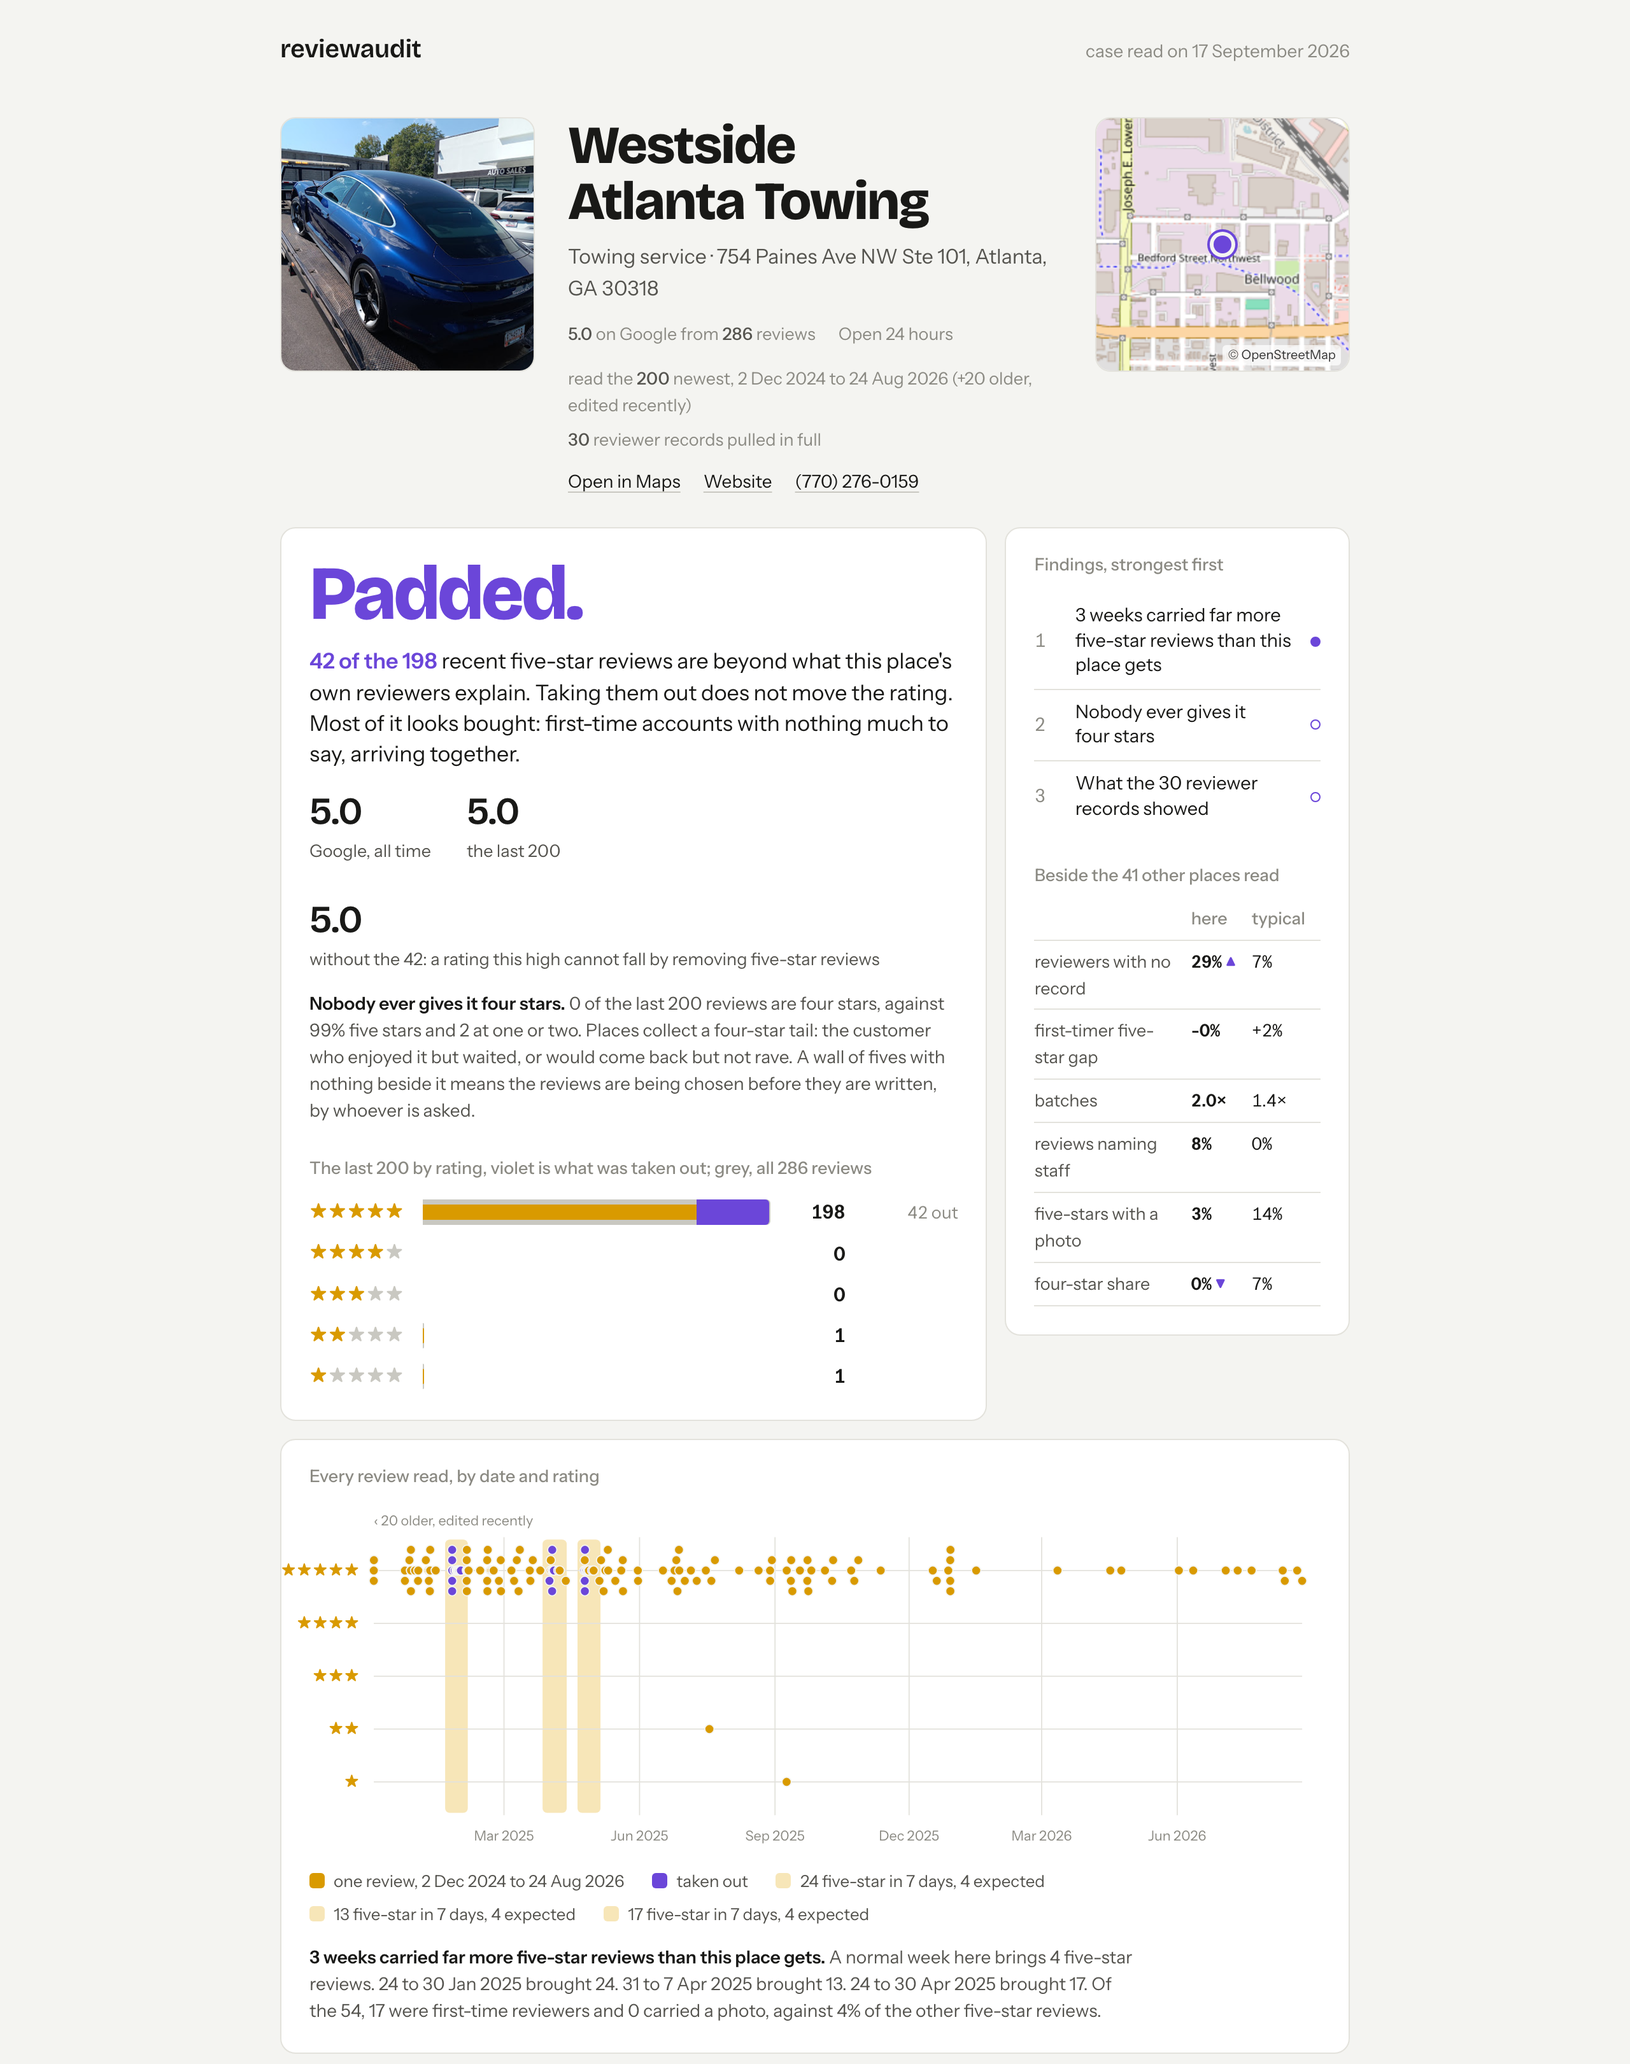
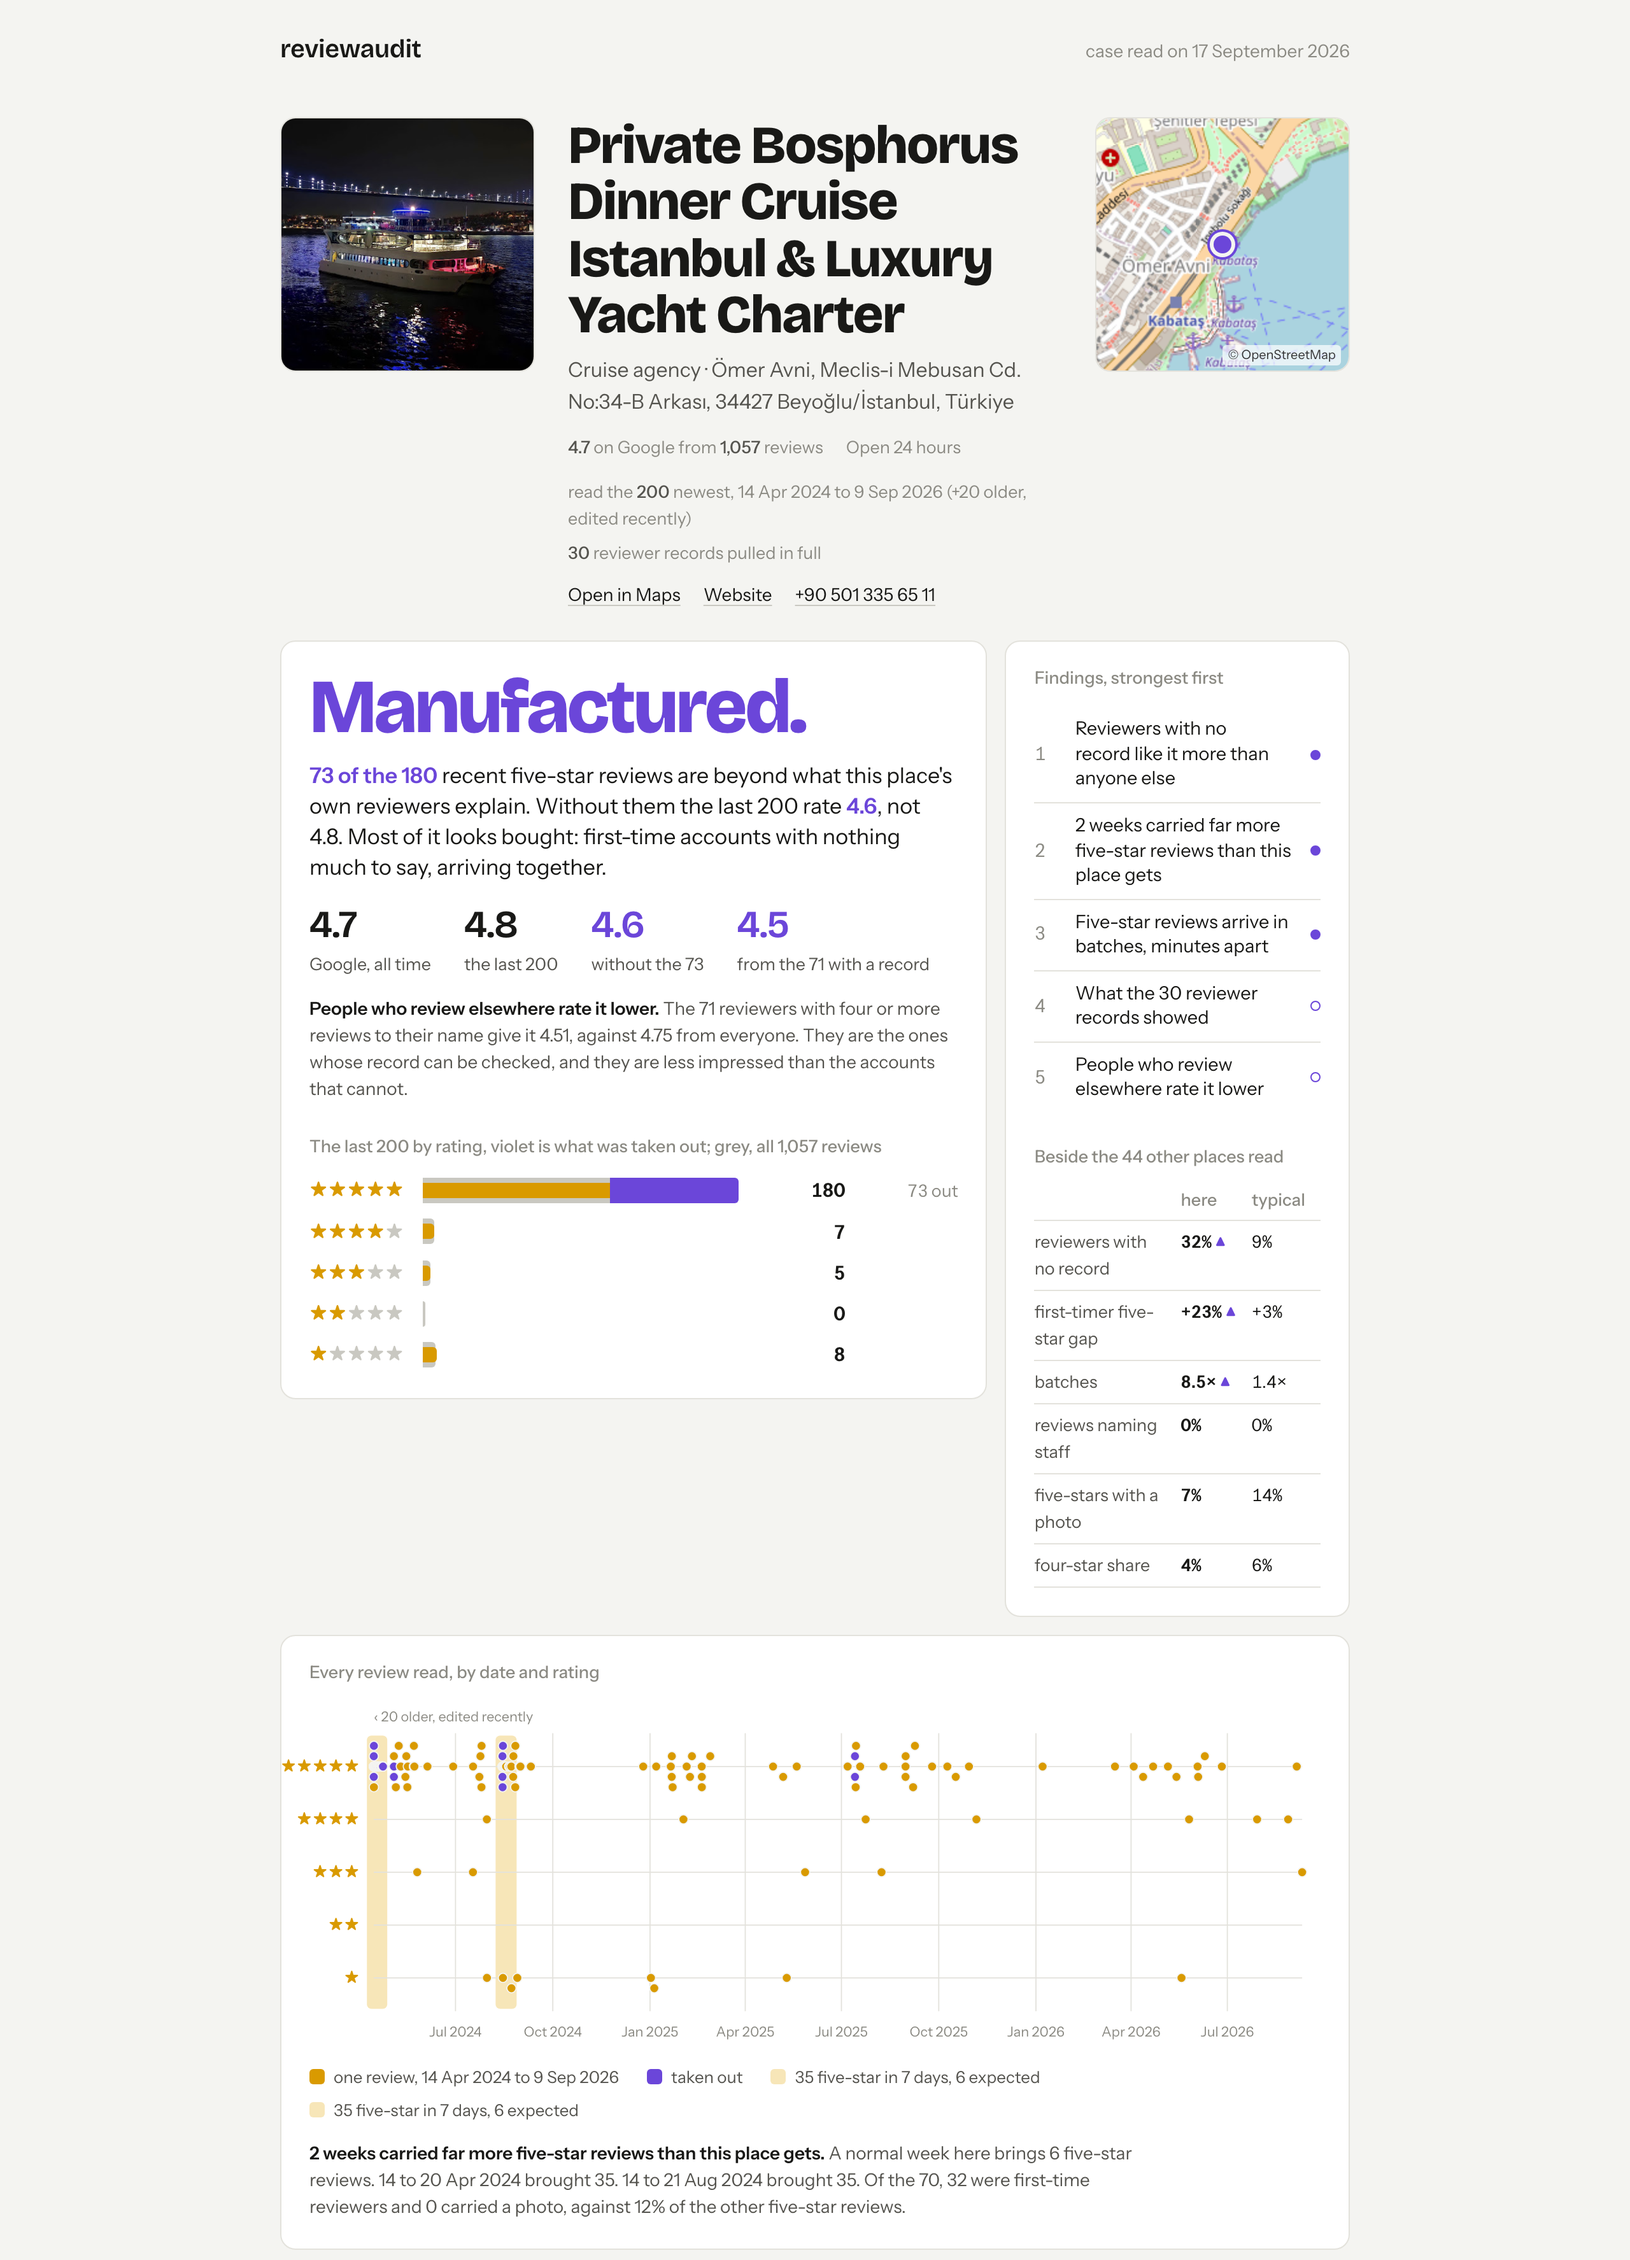
Hero case: the Bosphorus cruise, where the rating actually moves

diff --git a/tools/screenshots.py b/tools/screenshots.py
@@ -17,7 +17,7 @@ from playwright.sync_api import sync_playwright
 BASE = sys.argv[1] if len(sys.argv) > 1 else "http://localhost:8811"
 ONLY = set(sys.argv[2].split(",")) if len(sys.argv) > 2 else None  # e.g. home,cases: a run costs credits, skip it when you can
 OUT = "docs"
-CASE = "westside-atlanta-towing-atlanta.html"  # the hero: a 5.0 that does not hold up
+CASE = "private-bosphorus-dinner-cruise-istanbul-luxury-yacht-charter-beyoglu-istanbul.html"  # the hero: the clearest case of bought reviews
 INSIGHTS = "katz-s-delicatessen-new-york.html"  # a place with enough unhappy reviews to have complaints
 SEARCH = "/search?q=towing&near=Atlanta,%20Georgia"
 RUN = "Pike Place Chowder Seattle"  # somewhere not yet read, so the run has work to do

diff --git a/README.md b/README.md
@@ -13,7 +13,7 @@ Reads a Google Maps place's reviews and tells you how much of the praise its own
   <a href="https://serpapi.com"><img src="https://img.shields.io/badge/data-SerpApi-6b46d9" alt="SerpApi"></a>
 </p>
 
-<p align="center"><img src="docs/report.png" alt="A case: Nusr-Et Steakhouse, padded" width="900"></p>
+<p align="center"><img src="docs/report.png" alt="A case: a Bosphorus dinner cruise, manufactured" width="900"></p>
 
 Every business with a rating has an incentive to improve it, and a market that will sell it
 one. reviewaudit reads the newest reviews of one place through [SerpApi](https://serpapi.com),
@@ -21,11 +21,17 @@ pulls the full Google record of the reviewers worth a closer look, and writes a 
 that says which reviews the place's own baseline cannot explain, what the rating is without
 them, and what kind of padding it is: bought, or asked for at the table.
 
-The page above is a real read. A towing service in Atlanta with a **5.0 from 286 reviews**:
-198 of the last 200 reviews are five stars, **none** are four stars, 29% come from accounts
-that have never reviewed anything else (8% is typical), 3% carry a photo (14% is typical),
-and three separate weeks brought 24, 13 and 17 five-star reviews where four is this place's
-normal week.
+The page above is a real read: a Bosphorus dinner cruise advertising **4.7 from 1,057
+reviews**. 73 of its last 180 five-star reviews are more than its own reviewers can explain,
+which takes the recent rating from 4.8 to **4.6**, and to 4.5 among the reviewers whose
+record can be checked. A third of the reviewers have never reviewed anything else (9% is
+typical here), they give five stars 23 percentage points more often than accounts with a
+record, five-star reviews arrive in batches minutes apart eight times more often than the
+hours people post at would predict, and two separate weeks brought 35 five-star reviews
+where six is this place's normal week.
+
+Every one of those claims is on the page with the chart or table it came from, and every
+review taken out is listed with a link back to Google.
 
 It runs on your machine with your own SerpApi key. A place costs about 42 credits and two
 minutes. The free plan's 250 searches a month read five places.
